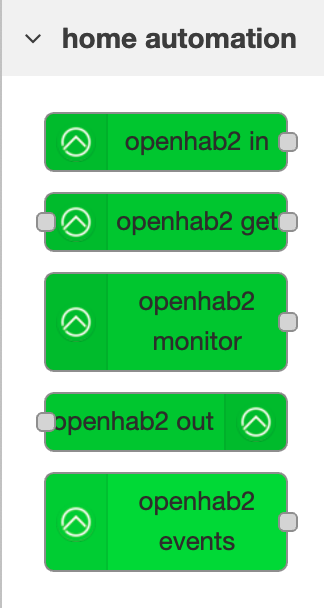
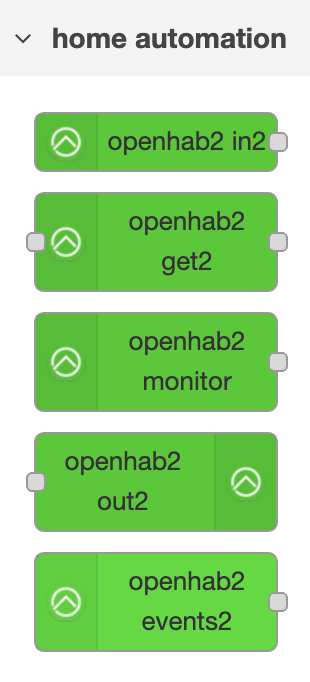
Update image

diff --git a/README.md b/README.md
@@ -16,6 +16,7 @@ Install this package `node-red-contrib-openhab3` via the `Manage palette` menu o
 
 | Version | Description |
 | --------------- | --------------- |
+| 1.3.1 | Update nodes picture in this README |
 | 1.3.0 | Renamed all nodes to be unique from the original package |
 
 ## Nodes
